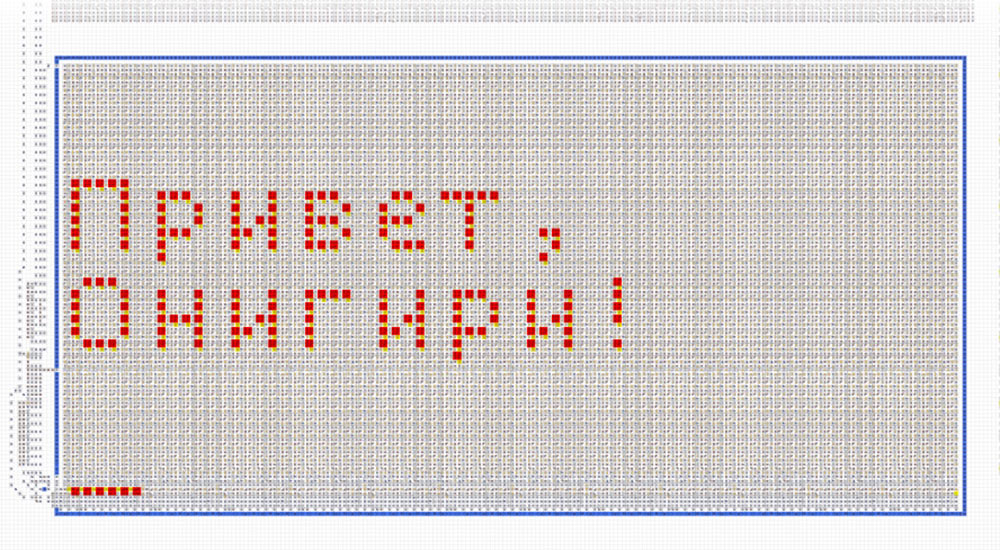
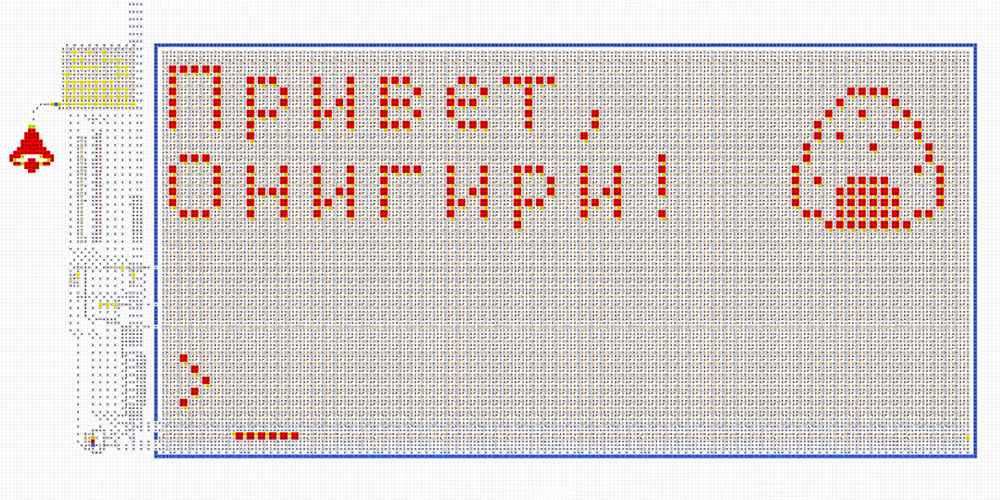
Terminal with graphics & demo

diff --git a/computer-v2/README.md b/computer-v2/README.md
@@ -1,4 +1,4 @@
-# Компьютер из стрелочек <sup><sup>*Gen. 2*</sup></sup>
+# Компьютер из стрелочек <sup>*Gen. 2*</sup>
 <br>
 
 <table>
@@ -26,9 +26,9 @@
 Зайдите на [карту с компьютером](https://logic-arrows.io/map-computer). В нижнем ползунке установите
 максимальную скорость. Нажмите на кнопку `Demo` и дождитесь загрузки программы в память компьютера.
 Во время загрузки на дисплей будет выведена цветная бабочка. Далее нажмите на кнопку `RUN` и
-наблюдайте, как программа напишет в терминал «Привет, Онигири!» и трижды позвонит в
-колокольчик. По окончании загорится лампочка `DONE`. Чтобы запустить на компьютере вашу собственную
-программу, см. [Программирование](programming.md).
+наблюдайте, как программа в терминале напишет «Привет, Онигири!», нарисует изображение онигири и
+трижды позвонит в колокольчик. По окончании загорится лампочка `DONE`. Чтобы запустить на компьютере
+вашу собственную программу, см. [Программирование](programming.md).
 <br><br><br>
 
 
@@ -57,9 +57,9 @@
     <tr>
       <td valign="top">
         <h3><a href="asm/demo.asm">Demo</a></h3>
-        <a href="asm/demo.asm"><img src="img/demo.jpg" alt="Demo"></a><br>
-        Во время загрузки выводит на дисплей цветную бабочку, а при запуске пишет в терминал
-        «Привет, Онигири!» и звонит в колокольчик.
+        <a href="asm/demo.asm"><img src="img/summary.jpg" alt="Demo"></a><br>
+        Во время загрузки выводит на дисплей цветную бабочку. При запуске пишет в терминал
+        «Привет, Онигири!», рисует изображение онигири и звонит в колокольчик.
       </td>
       <td valign="top">
         <h3><a href="asm/prime-numbers.asm">Prime Numbers</a></h3>

diff --git a/computer-v2/specification.md b/computer-v2/specification.md
@@ -63,16 +63,14 @@
 
 ## Терминал
 Размер терминала 12×4 символов с возможностью расширения до любых размеров. Имеет подвижный курсор в
-нижней строке, где можно выводить различные символы. Остальные строки являются историей и постепенно
-сдвигаются вверх. Поддерживает команды `\a`, `\b`, `\t`, `\n`, `\v`, `\f`, `\r`, `delete` и
-перемещение курсора стрелками. Поддерживает вывод пиксельной графики *(в разработке).*
+нижней строке, где можно выводить различные символы и графику. Остальные строки являются историей и
+постепенно сдвигаются вверх. Поддерживает команды `\a`, `\b`, `\t`, `\n`, `\v`, `\f`, `\r`, `delete`
+и перемещение курсора стрелками.
 
 Для подключения вывода в терминал необходимо в порт `3E` записать байт, у которого 0-й бит равен
 `1`. Далее, каждый байт, отправленный по адресу `3C`, выводится в терминал как символ в кодировке
-[`cp1251`](https://ru.wikipedia.org/wiki/Windows-1251).
-
-Байты, отправленные по адресу `3D`, накапливаются в буфере из 6 байт. При заполнении буфера все байты
-выводятся в терминал как графический символ, после чего буфер очищается *(в разработке).*
+[`cp1251`](https://ru.wikipedia.org/wiki/Windows-1251). Шесть байт, отправленных по адресу `3D`,
+выводятся в терминал как один графический символ.
 
 <img src="img/terminal.jpg" width="60%" alt="Терминал">
 <br><br>

diff --git a/computer-v1/README.md b/computer-v1/README.md
@@ -1,4 +1,4 @@
-# Компьютер из стрелочек <sup><sup>*Gen. 1*</sup></sup>
+# Компьютер из стрелочек <sup>*Gen. 1*</sup>
 
 > [!TIP]
 > См. новый [Компьютер из стрелочек <sup>***Gen. 2***</sup>](../computer-v2/README.md).
